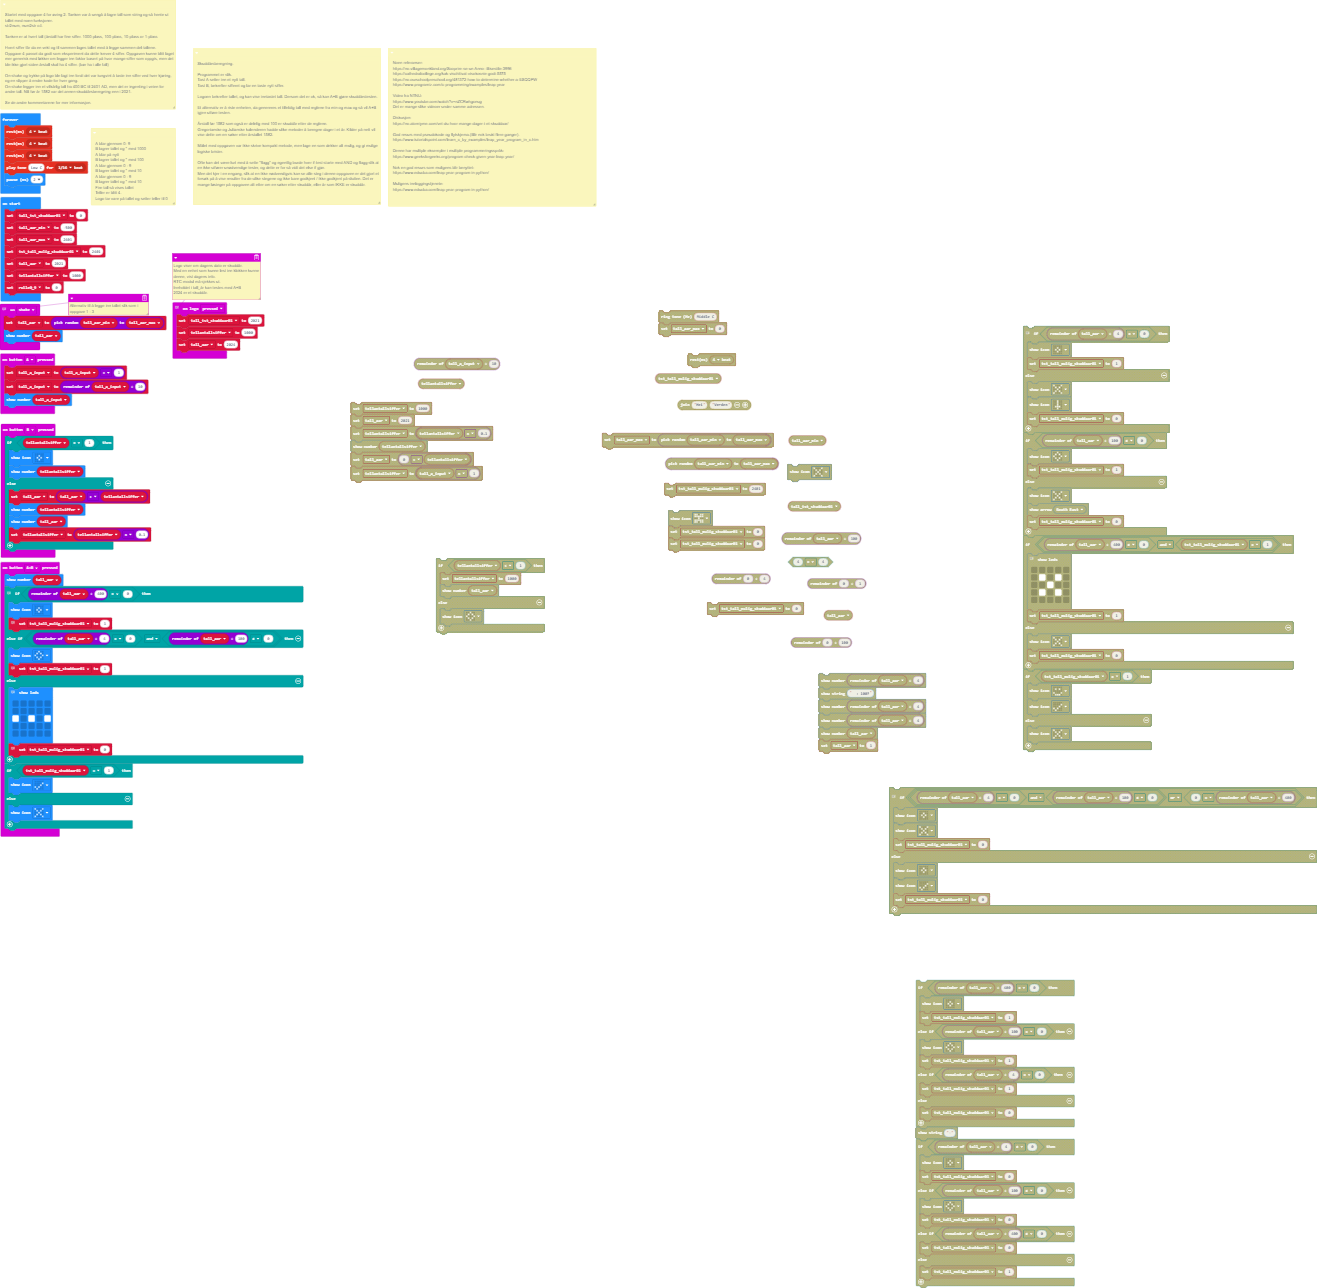
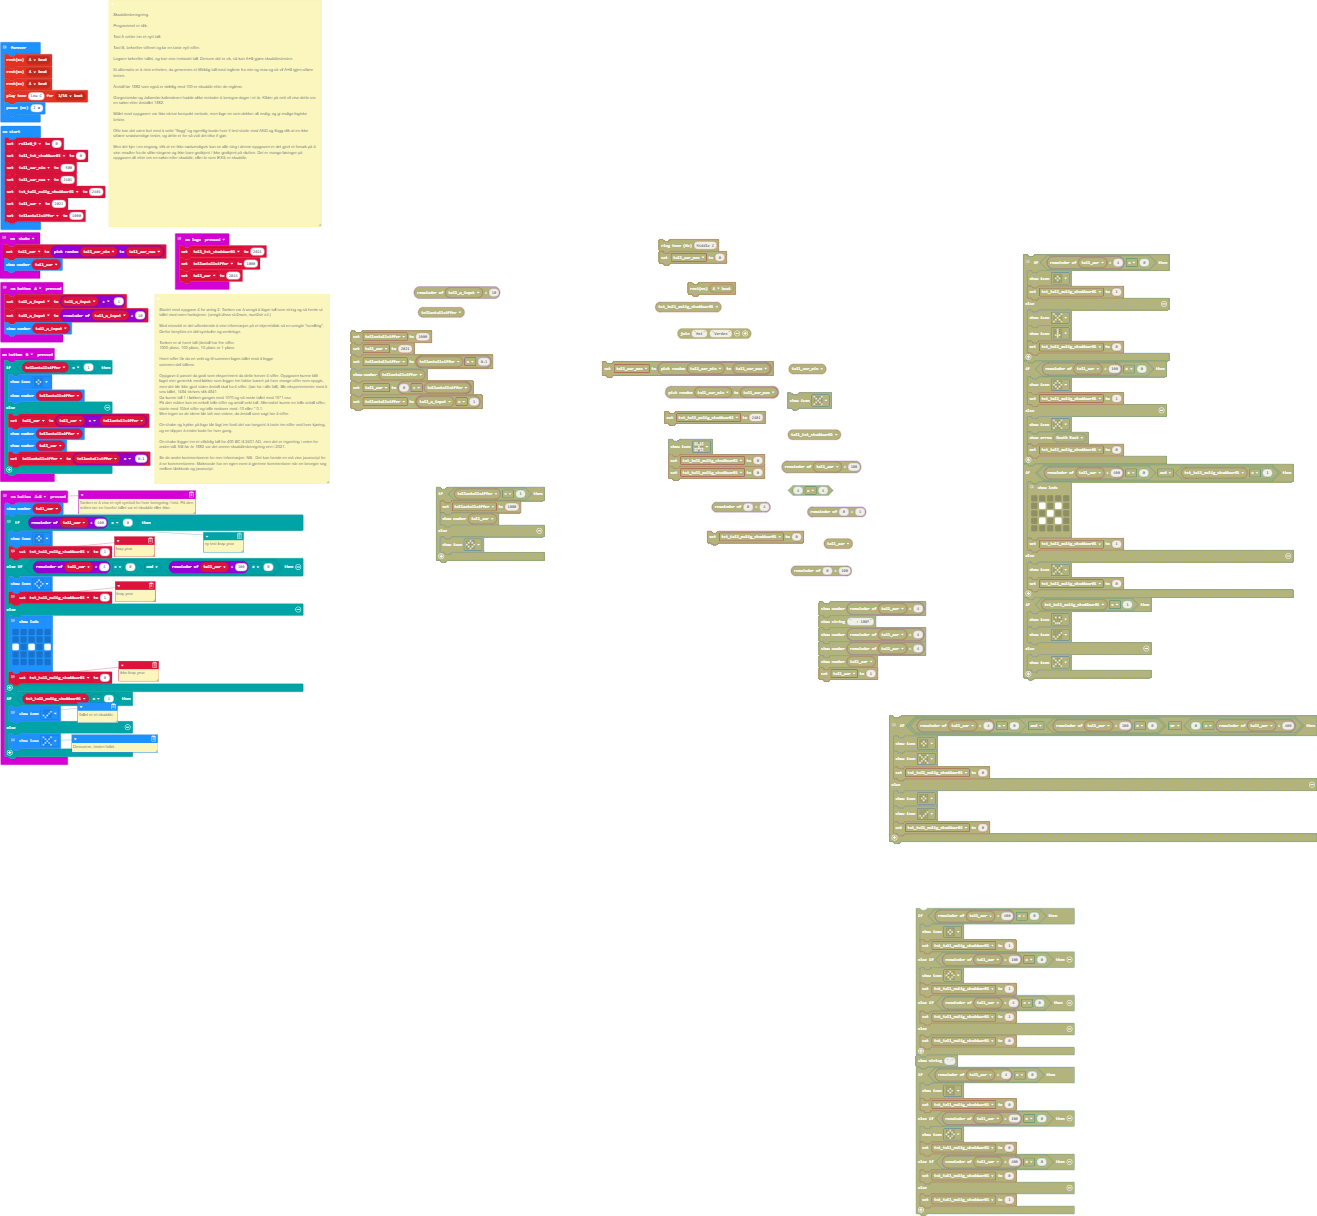
Skuddaar med random og symboler. Beregninger er ok

Changed region(s): [[0.0, 0.0, 0.467, 0.6562], [0.4358, 0.1875, 1.0, 1.0]]

diff --git a/main.ts b/main.ts
@@ -1,68 +1,44 @@
-/**
- * Skuddårsberegning.
- * 
- * Programmet er slik.
- * 
- * Tast A setter inn et nytt tall.
- * 
- * Tast B, bekrefter sifferet og lar en taste nytt siffer.
- * 
- * Logoen bekrefter tallet, og kan vise inntastet tall. Dersom det er ok, så kan A+B gjøre skuddårstesten.
- * 
- * Et alternativ er å riste enheten, da genereres et tilfeldig tall med reglene fra min og max og så vil A+B igjen utføre testen.
- * 
- * Årstall før 1582 som også er delelig med 100 er skuddår etter de reglene.
- * 
- * Gregorianske og Julianske kalenderen hadde ulike metoder å beregne dager i et år. Kilder på nett vil vise dette om en søker etter årstallet 1582.
- * 
- * Målet med oppgaven var ikke skrive kompakt metode, men lage en som dekker alt mulig, og gi mulige logiske brister.
- * 
- * Ofte kan det være lurt med å sette "flagg" og egentlig burde hver if-test starte med AND og flagg slik at en ikke utfører unødvendige tester, og dette er for så vidt det else if gjør.
- * 
- * Men det kjer i en engang, slik at en ikke nødvendigvis kan se alle steg i denne oppgaven er det gjort et forsøk på å vise resulter fra de ulike stegene og ikke bare godkjent / ikke godkjent på slutten. Det er mange løsinger på oppgaven alt etter om en søker etter skuddår, eller år som IKKE er skuddår.
- */
-/**
- * Noen referanser:
- * 
- * https://no.villagemonkland.org/Scoprire-se-un-Anno--Bisestile-3996
- * 
- * https://cathedralcollege.org/kak-vischitivat-visokosnie-godi-5575
- * 
- * https://no.ourschoolpreschool.org/481372-how-to-determine-whether-a-ESQQPW
- * 
- * https://www.programiz.com/c-programming/examples/leap-year
- * 
- * Video fra NTNU:
- * 
- * https://www.youtube.com/watch?v=nZCRwhgcnug
- * 
- * Det er mange slike videoer under samme adressen.
- * 
- * Diskusjon:
- * 
- * https://no.atomiyme.com/vet-du-hvor-mange-dager-i-et-skuddaar/
- * 
- * God resurs med pseudokode og flytskjema.(Blir nok brukt flere ganger).
- * 
- * https://www.tutorialspoint.com/learn_c_by_examples/leap_year_program_in_c.htm
- * 
- * Denne har multiple eksempler i multiple programmeringsspråk:
- * 
- * https://www.geeksforgeeks.org/program-check-given-year-leap-year/
- * 
- * Nok en god resurs som muligens blir benyttet:
- * 
- * https://www.educba.com/leap-year-program-in-python/
- * 
- * Muligens innloggingstjenete:
- * 
- * https://www.educba.com/leap-year-program-in-python/
- */
+// Noen referanser:
+// 
+// https://no.villagemonkland.org/Scoprire-se-un-Anno--Bisestile-3996
+// 
+// https://cathedralcollege.org/kak-vischitivat-visokosnie-godi-5575
+// 
+// https://no.ourschoolpreschool.org/481372-how-to-determine-whether-a-ESQQPW
+// 
+// https://www.programiz.com/c-programming/examples/leap-year
+// 
+// Video fra NTNU:
+// 
+// https://www.youtube.com/watch?v=nZCRwhgcnug
+// 
+// Det er mange slike videoer under samme adressen.
+// 
+// Diskusjon:
+// 
+// https://no.atomiyme.com/vet-du-hvor-mange-dager-i-et-skuddaar/
+// 
+// God resurs med pseudokode og flytskjema.(Blir nok brukt flere ganger).
+// 
+// https://www.tutorialspoint.com/learn_c_by_examples/leap_year_program_in_c.htm
+// 
+// Denne har multiple eksempler i multiple programmeringsspråk:
+// 
+// https://www.geeksforgeeks.org/program-check-given-year-leap-year/
+// 
+// Nok en god resurs som muligens blir benyttet:
+// 
+// https://www.educba.com/leap-year-program-in-python/
+// 
+// Muligens innloggingstjenete:
+// 
+// https://www.educba.com/leap-year-program-in-python/
 input.onButtonPressed(Button.A, function () {
     tall_a_input = tall_a_input + 1
     tall_a_input = tall_a_input % 10
     basic.showNumber(tall_a_input)
 })
+// Tanken er å vise et nytt symbol for hver beregning / test. På den måten ser en hvorfor tallet var et skuddår eller ikke.
 input.onButtonPressed(Button.AB, function () {
     basic.showNumber(tall_aar)
     // ny test leap year
@@ -83,15 +59,44 @@ input.onButtonPressed(Button.AB, function () {
             . . . . .
             . . . . .
             `)
-        // leap year
+        // ikke leap year
         tst_tall_mulig_skuddaar01 = 0
     }
     if (tst_tall_mulig_skuddaar01 == 1) {
+        // Tallet er et skuddår.
         basic.showIcon(IconNames.Yes)
     } else {
+        // Dessverre, testen feilet.
         basic.showIcon(IconNames.No)
     }
 })
+/**
+ * Startet med oppgave 4 for øving 2. Tanken var å unngå å lagre tall som string og så hente ut tallet med noen funksjoner. (unngå disse str2num, num2str o.l.)
+ * 
+ * Med microbit er det utfordrende å vise informasjon på et skjermbilde så en unngår "scrolling". Derfor benyttes en del symboler og ventetegn.
+ * 
+ * Tanken er at hvert tall (årstall har fire siffer. 
+ * 
+ * 1000-plass, 100-plass, 10-plass or 1-plass
+ * 
+ * Hvert siffer får da en vekt og til sammen lages tallet med å legge 
+ * 
+ * sammen del-tallene.
+ * 
+ * Oppgave 4 passet da godt som eksperiment da dette krever 4 siffer. Oppgaven kunne blitt laget mer generisk med løkker som legger inn faktor basert på hvor mange siffer som oppgis, men det ble ikke gjort siden årstall skal ha 4 siffer. (bør ha i alle fall). Ble eksperiementer med å snu tallet, 1454 skrives slik 4541
+ * 
+ * Da kunne tall 1 i løkken ganges med 10^0 og så neste tallet med 10^1 osv.
+ * 
+ * På den måten kan en enkelt telle siffer og antall vekt-tall. Alternativt kunne en telle antall siffer, starte med 10ânt siffer og telle nedover med :10 eller * 0.1.
+ * 
+ * Men ingen av de idene ble tatt noe videre, da årstall som sagt har 4 siffer.
+ * 
+ * On shake og trykke på logo ble lagt inn fordi det var tungvint å taste inn siffer ved hver kjøring, og en slipper å endre kode for hver gang.
+ * 
+ * On shake legger inn et vilkårlig tall fra 400 BC til 2401 AD, men det er ingenting i veien for andre tall. NB før år 1582 var det annen skuddårsberegning enn i 2021.
+ * 
+ * Se de andre kommentarene for mer informasjon. NB.  Det kan hende en må vise javascript for å se kommentarene. Makecode har en egen evne å gjemme kommentarer når en beveger seg mellom blokkode og javascript.
+ */
 input.onButtonPressed(Button.B, function () {
     if (tellantallsiffer == 1) {
         basic.showIcon(IconNames.SmallDiamond)
@@ -118,6 +123,29 @@ input.onLogoEvent(TouchButtonEvent.Pressed, function () {
     tellantallsiffer = 1000
     tall_aar = 2024
 })
+/**
+ * Skuddårsberegning.
+ * 
+ * Programmet er slik.
+ * 
+ * Tast A setter inn et nytt tall.
+ * 
+ * Tast B, bekrefter sifferet og lar en taste nytt siffer.
+ * 
+ * Logoen bekrefter tallet, og kan vise inntastet tall. Dersom det er ok, så kan A+B gjøre skuddårstesten.
+ * 
+ * Et alternativ er å riste enheten, da genereres et tilfeldig tall med reglene fra min og max og så vil A+B igjen utføre testen.
+ * 
+ * Årstall før 1582 som også er delelig med 100 er skuddår etter de reglene.
+ * 
+ * Gregorianske og Julianske kalenderen hadde ulike metoder å beregne dager i et år. Kilder på nett vil vise dette om en søker etter årstallet 1582.
+ * 
+ * Målet med oppgaven var ikke skrive kompakt metode, men lage en som dekker alt mulig, og gi mulige logiske brister.
+ * 
+ * Ofte kan det være lurt med å sette "flagg" og egentlig burde hver if-test starte med AND og flagg slik at en ikke utfører unødvendige tester, og dette er for så vidt det else if gjør.
+ * 
+ * Men det kjer i en engang, slik at en ikke nødvendigvis kan se alle steg i denne oppgaven er det gjort et forsøk på å vise resulter fra de ulike stegene og ikke bare godkjent / ikke godkjent på slutten. Det er mange løsinger på oppgaven alt etter om en søker etter skuddår, eller år som IKKE er skuddår.
+ */
 let tall_a_input = 0
 let tellantallsiffer = 0
 let tall_aar = 0
@@ -125,53 +153,34 @@ let tst_tall_mulig_skuddaar01 = 0
 let tall_aar_max = 0
 let tall_aar_min = 0
 let tall_tst_skuddaar01 = 0
+let rulle0_9 = 0
 tall_tst_skuddaar01 = 0
 tall_aar_min = -500
 tall_aar_max = 2401
 tst_tall_mulig_skuddaar01 = 2401
 tall_aar = 2021
 tellantallsiffer = 1000
-let rulle0_9 = 0
-/**
- * Startet med oppgave 4 for øving 2. Tanken var å unngå å lagre tall som string og så hente ut tallet med noen funksjoner.
- * 
- * str2num, num2str o.l.
- * 
- * Tanken er at hvert tall (årstall har fine siffer. 1000-plass, 100-plass, 10-plass or 1-plass
- * 
- * Hvert siffer får da en vekt og til sammen lages tallet med å legge sammen del-tallene.
- * 
- * Oppgave 4 passet da godt som eksperiment da dette krever 4 siffer. Oppgaven kunne blitt laget mer generisk med løkker om legger inn faktor basert på hvor mange siffer som oppgis, men det ble ikke gjort siden årstall skal ha 4 siffer. (bør ha i alle fall)
- * 
- * On shake og trykke på logo ble lagt inn fordi det var tungvint å taste inn siffer ved hver kjøring, og en slipper å endre kode for hver gang.
- * 
- * On shake legger inn et vilkårlig tall fra 400 BC til 2401 AD, men det er ingenting i veien for andre tall. NB før år 1582 var det annen skuddårsberegning enn i 2021. 
- * 
- * Se de andre kommentarene for mer informasjon.
- */
-/**
- * A blar gjennom 0- 9
- * 
- * B lagrer tallet og * med 1000
- * 
- * A blar på nytt
- * 
- * B lagrer tallet og * med 100
- * 
- * A blar gjennom 0 - 9
- * 
- * B lagrer tallet og * med 10
- * 
- * A blar gjennom 0 - 9
- * 
- * B lagrer tallet og * med 10
- * 
- * Fire tall så vises tallet
- * 
- * Teller er blitt 4.
- * 
- * Logo tar vare på tallet og setter teller til 0
- */
+// A blar gjennom 0- 9
+// 
+// B lagrer tallet og * med 1000
+// 
+// A blar på nytt
+// 
+// B lagrer tallet og * med 100
+// 
+// A blar gjennom 0 - 9
+// 
+// B lagrer tallet og * med 10
+// 
+// A blar gjennom 0 - 9
+// 
+// B lagrer tallet og * med 10
+// 
+// Fire tall så vises tallet
+// 
+// Teller er blitt 4.
+// 
+// Logo tar vare på tallet og setter teller til 0
 basic.forever(function () {
     music.rest(music.beat(BeatFraction.Breve))
     music.rest(music.beat(BeatFraction.Breve))
